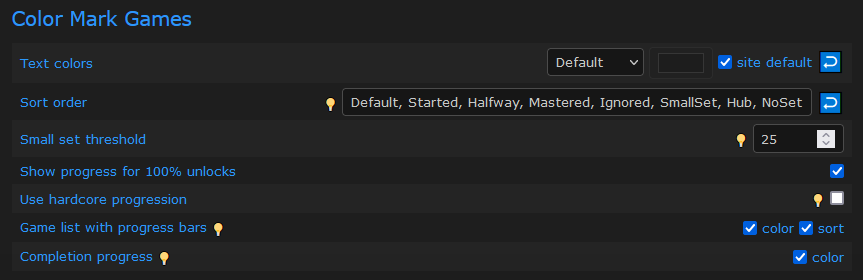
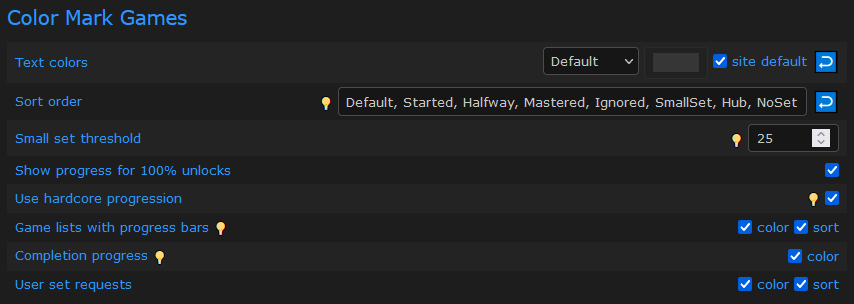
Adds support for the Requested Sets page of a user (when games with a set are displayed)

diff --git a/RA_ColorMarkGames.user.js b/RA_ColorMarkGames.user.js
@@ -1,7 +1,7 @@
 // ==UserScript==
 // @name        RA_ColorMarkGames
 // @description Colors Game Names
-// @version     1.0
+// @version     1.1
 // @namespace   RA
 // @match       https://retroachievements.org/game/*
 // @match       https://retroachievements.org/gameSearch*
@@ -42,7 +42,9 @@ const Settings = {
     UseHardcoreProgression: GM_getValue('useHardcoreProgression', false),
     ColorHubLines: GM_getValue('colorHubLines', true),
     SortHubLines: GM_getValue('sortHubLines', true),
-    ColorProgressLines: GM_getValue('colorProgressLines', true)
+    ColorProgressLines: GM_getValue('colorProgressLines', true),
+    ColorSetRequestLines: GM_getValue('colorSetRequestLines', true),
+    SortSetRequestLines: GM_getValue('sortSetRequestLines', true)
 };
 
 // TODO: Ignored from the site interface
@@ -255,14 +257,11 @@ const Pages = (() => {
         .filter(v => v)
         .reduce((p, c) => ({ ...p, ...c }), {});
 
-        const GetProgressCellText = id => {
-            const progressObj = Data.ProgressGet()[id];
-            return (progressObj && (Settings.ShowProgressFor100PercentUnlocks || progressObj.Unlocked !== progressObj.Total))
-                ? `${progressObj.Unlocked} / ${progressObj.Total}` : null;
-        };
         const AddProgress = (rowObj, i) => {
             const cells = rowObj.Row.getElementsByTagName('td');
-            const progressTextText = GetProgressCellText(rowObj.Id);
+            const progressObj = Data.ProgressGet()[rowObj.Id];
+            const progressTextText = (progressObj && (Settings.ShowProgressFor100PercentUnlocks || progressObj.Unlocked !== progressObj.Total))
+            ? `${progressObj.Unlocked} / ${progressObj.Total}` : null;
             if (progressTextText) cells[i].innerHTML = progressTextText;
             cells[i].style = 'text-align: right; padding-right: 2em;';
         };
@@ -372,6 +371,39 @@ const Pages = (() => {
         return { Hardest, Do };
     })();
 
+    const SetRequests = (() => {
+
+        const splitDefault = (rowsObjsByType) => rowsObjsByType.Default?.reduceRight((p, c, i) => {
+            const text = c.Row.getElementsByTagName('td')[1].innerText;
+            if (c.Row.getElementsByTagName('td')[1].innerText.trim() === 'Set Exists') return p;
+            p.Default.splice(i, 1);
+            return { ...p, NoSet: [c, ...(p.NoSet || [])] };
+        }, rowsObjsByType) || rowsObjsByType;
+
+        const Do = () => {
+            if (new URLSearchParams(window.location.search).get('f') !== '1') return;
+            const table = document.querySelector('article table.table-highlight');
+            const rowsObjs = GetRowsData(table).sort((a, b) => a.Name.localeCompare(b.Name));
+            const rowsObjsByType = splitDefault(Processing.GroupByTypes(rowsObjs));
+            SetNewOrder(table, rowsObjsByType, Settings.ColorSetRequestLines, Settings.SortSetRequestLines);
+            if (rowsObjsByType.NoSet) {
+                const titleCell = document.createElement('th');
+                titleCell.innerHTML = 'Progress';
+                table.querySelector('tr.do-not-highlight')?.append(titleCell);
+                rowsObjs.forEach(rowObj => {
+                    const newCell = document.createElement('td');
+                    rowObj.Row.append(newCell);
+                    const progressObj = Data.ProgressGet()[rowObj.Id];
+                    const progressTextText = (progressObj && (Settings.ShowProgressFor100PercentUnlocks || progressObj.Unlocked !== progressObj.Total))
+                    ? `${progressObj.Unlocked} / ${progressObj.Total}` : null;
+                    if (progressTextText) newCell.innerHTML = progressTextText;
+                });
+            }
+        };
+
+        return { Do };
+    })();
+
     const Forum = (() => {
         const GetLinks = () => [...document
                                 .getElementsByTagName("article")[0]
@@ -461,6 +493,13 @@ const Pages = (() => {
 				<td>Completion progress <div class="icon" title="Other users completion progress pages" style="cursor: help;">💡</div></td>
 				<td style="text-align: right;">
 					<label><input id="colorProgressCheckbox" type="checkbox"/> color</label>
+				</td>
+			</tr>
+			<tr>
+				<td>User set requests</td>
+				<td style="text-align: right;">
+					<label><input id="colorSetRequestsCheckbox" type="checkbox"/> color</label>
+                    <label><input id="sortSetRequestsCheckbox" type="checkbox"/> sort</label>
 				</td>
 			</tr>
 		</tbody>
@@ -562,33 +601,21 @@ const Pages = (() => {
                 GM_setValue('smallSetThr', smallSetThrInput.value);
             });
 
-            const show100ProgressInput = document.getElementById('show100ProgressCheckbox');
-            show100ProgressInput.checked = Settings.ShowProgressFor100PercentUnlocks;
-            show100ProgressInput.addEventListener('input', () => {
-                GM_setValue('showProgressFor100PercentUnlocks', show100ProgressInput.checked);
-            });
+            const bindCheckbox = (checkboxId, settingKey, storageKey) => {
+                const checkbox = document.getElementById(checkboxId);
+                checkbox.checked = Settings[settingKey];
+                checkbox.addEventListener('input', () => {
+                    GM_setValue(storageKey, checkbox.checked);
+                });
+            };
 
-            const useHardcoreInput = document.getElementById('useHardcoreCheckbox');
-            useHardcoreInput.checked = Settings.UseHardcoreProgression;
-            useHardcoreInput.addEventListener('input', () => {
-                GM_setValue('useHardcoreProgression', useHardcoreInput.checked);
-            });
-
-            const colorHubsInput = document.getElementById('colorHubsCheckbox');
-            colorHubsInput.checked = Settings.ColorHubLines;
-            colorHubsInput.addEventListener('input', () => {
-                GM_setValue('colorHubLines', colorHubsInput.checked);
-            });
-            const sortHubsInput = document.getElementById('sortHubsCheckbox');
-            sortHubsInput.checked = Settings.SortHubLines;
-            sortHubsInput.addEventListener('input', () => {
-                GM_setValue('sortHubLines', sortHubsInput.checked);
-            });
-            const colorProgressInput = document.getElementById('colorProgressCheckbox');
-            colorProgressInput.checked = Settings.ColorProgressLines;
-            colorProgressInput.addEventListener('input', () => {
-                GM_setValue('colorProgressLines', colorProgressInput.checked);
-            });
+            bindCheckbox('show100ProgressCheckbox', 'ShowProgressFor100PercentUnlocks', 'showProgressFor100PercentUnlocks');
+            bindCheckbox('useHardcoreCheckbox', 'UseHardcoreProgression', 'useHardcoreProgression');
+            bindCheckbox('colorHubsCheckbox', 'ColorHubLines', 'colorHubLines');
+            bindCheckbox('sortHubsCheckbox', 'SortHubLines', 'sortHubLines');
+            bindCheckbox('colorProgressCheckbox', 'ColorProgressLines', 'colorProgressLines');
+            bindCheckbox('colorSetRequestsCheckbox', 'ColorSetRequestLines', 'colorSetRequestLines');
+            bindCheckbox('sortSetRequestsCheckbox', 'SortSetRequestLines', 'sortSetRequestLines');
         };
 
         return { Do };
@@ -600,6 +627,7 @@ const Pages = (() => {
         system: Hub.Do,
         developer: Hub.Do,
         gameList: GameList.Do,
+        setRequestList: SetRequests.Do,
         progress: Progress.Do,
         viewtopic: Forum.Do,
         controlpanel: SettingsPage.Do

diff --git a/README.md b/README.md
@@ -12,6 +12,7 @@ The script is fixed for RAWeb 6.0.3 (at least), and adds some features:
 - Support for developer sets list
 - Settings to disable coloring or sorting on pages with progress bars
 - Support for other users progress page (and setting to disable it)
+- Support for *Requested Sets* page for a user when the link to include games with a set has been used
 - On pages with progress bars, use data from these instead instead of the one stored from profile page
 - and a few minor tweaks (script favicon, adds total unlocks in game list foot row...)
 
@@ -88,3 +89,5 @@ The reset icon on the right allows to restore the default order.
 - *Game lists with progress bars*: allows to disable coloring on Hubs, console games lists and developer sets lists as the new display for these pages can be considered clear enough. The sorting can also be disabled as it messes with the one provided by these pages, unless using [RA_EnhancedHubSort](https://github.com/Mindhral/RA_userscripts/tree/main#ra_enhancedhubsort) at the same time
 
 - *Completion progress*: allows to disable the coloring on other users completion progress pages.
+
+- *User set requests*: allows to disable the coloring and the sorting on the *Requested Sets* list of a user.
